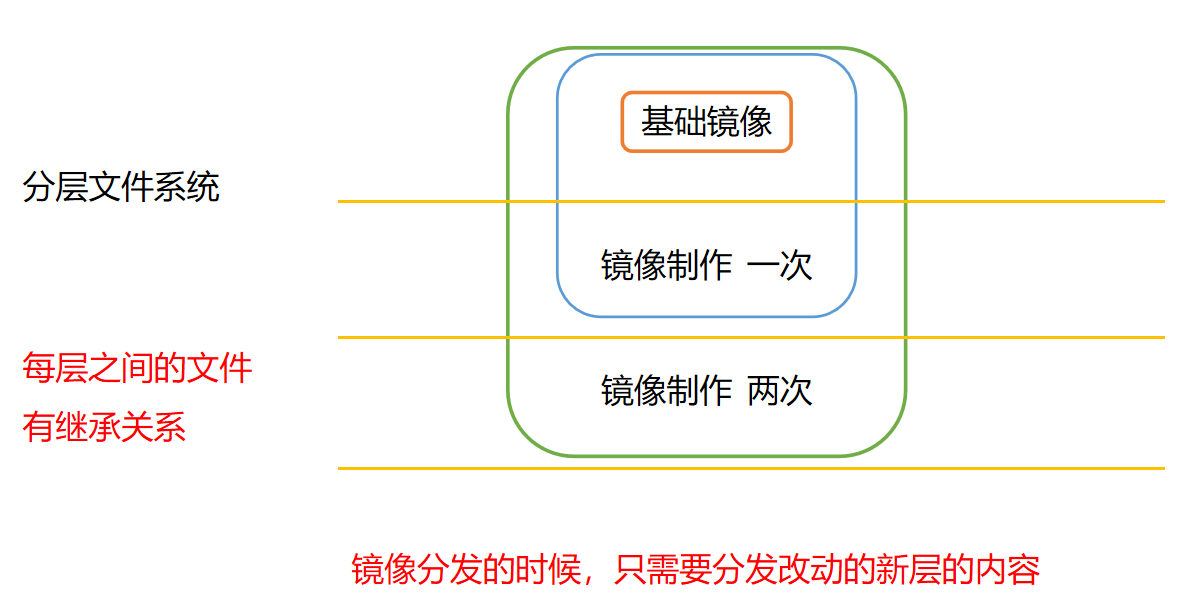
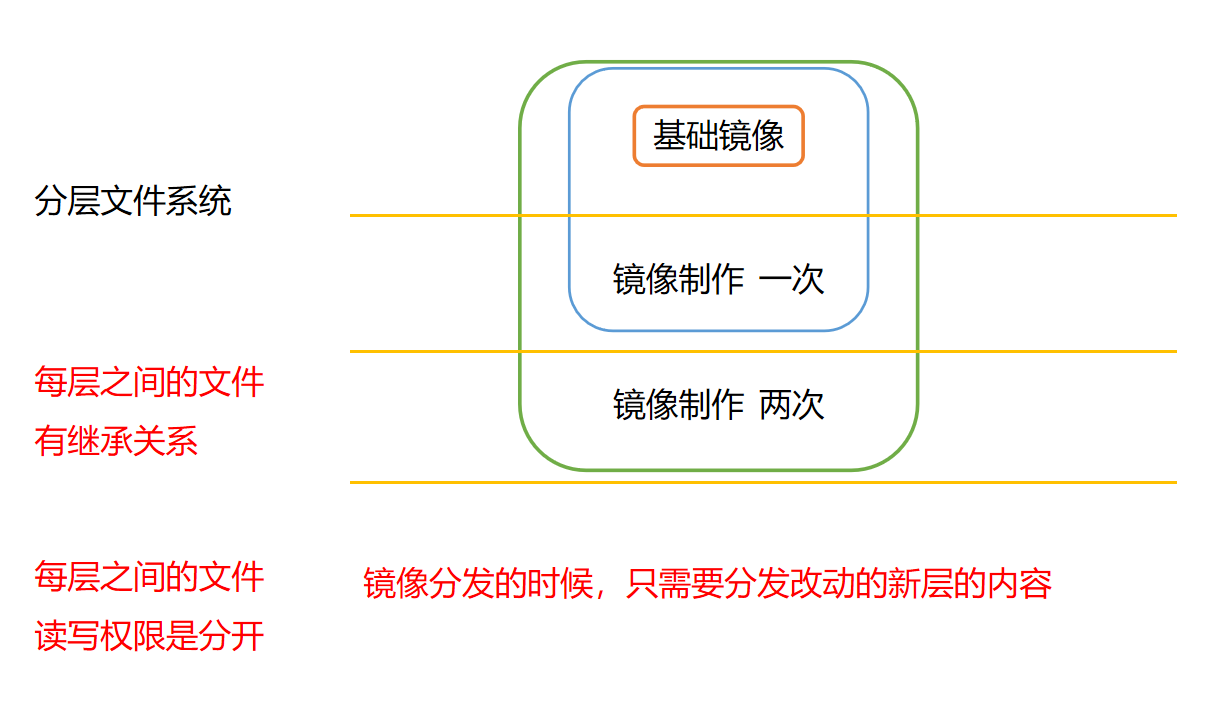
sdfsdfsdfsdfsdfs

diff --git a/docker/容器的原理.md b/docker/容器的原理.md
@@ -26,7 +26,9 @@
     - 目的是限制容器对宿主机的 系统资源使用，防止某个容器过度占用宿主机资源
     - 每个控制组都不能看到其他组的进程，文件系统，网络
 - **[联合文件系统](#)**
+![2pc](https://github.com/caesar-empereur/read-book/blob/master/photo/docker-file.png)
     - 一种轻量级的高性能分层文件系统, 同时可以将不同目录挂载到同一个虚拟文件系统下
     - 联合文件系统是实现Docker镜像的技术基础
     - Docker镜像可以通过联合文件系统的分层来进行继承
     - 对于基础镜像，每制作一次镜像，相当于给文件系统增加了一层，分发镜像的时候只需要分发改动的层即可
+    - docker 利用镜像启动容器时，会在镜像文件系统的顶层进行读写，如果镜像操作发生在下层，需要复制到顶层
